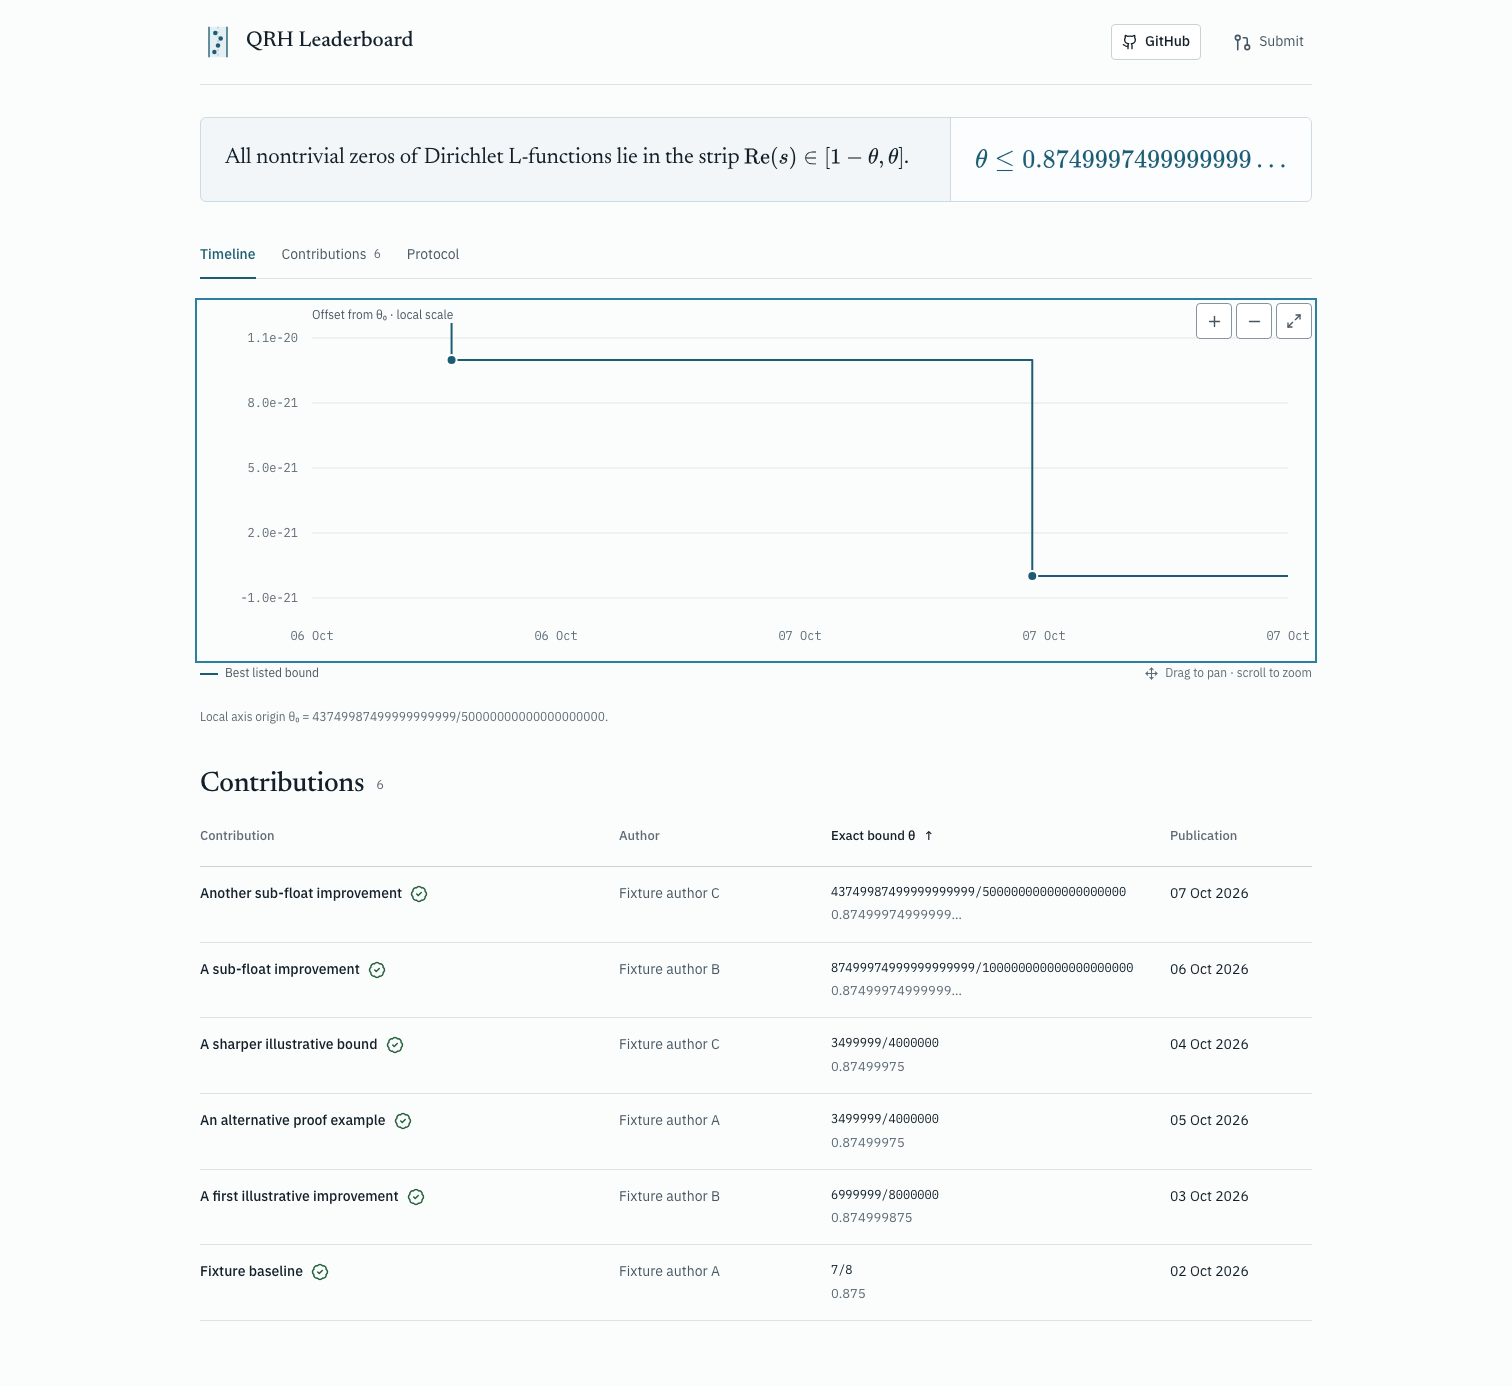
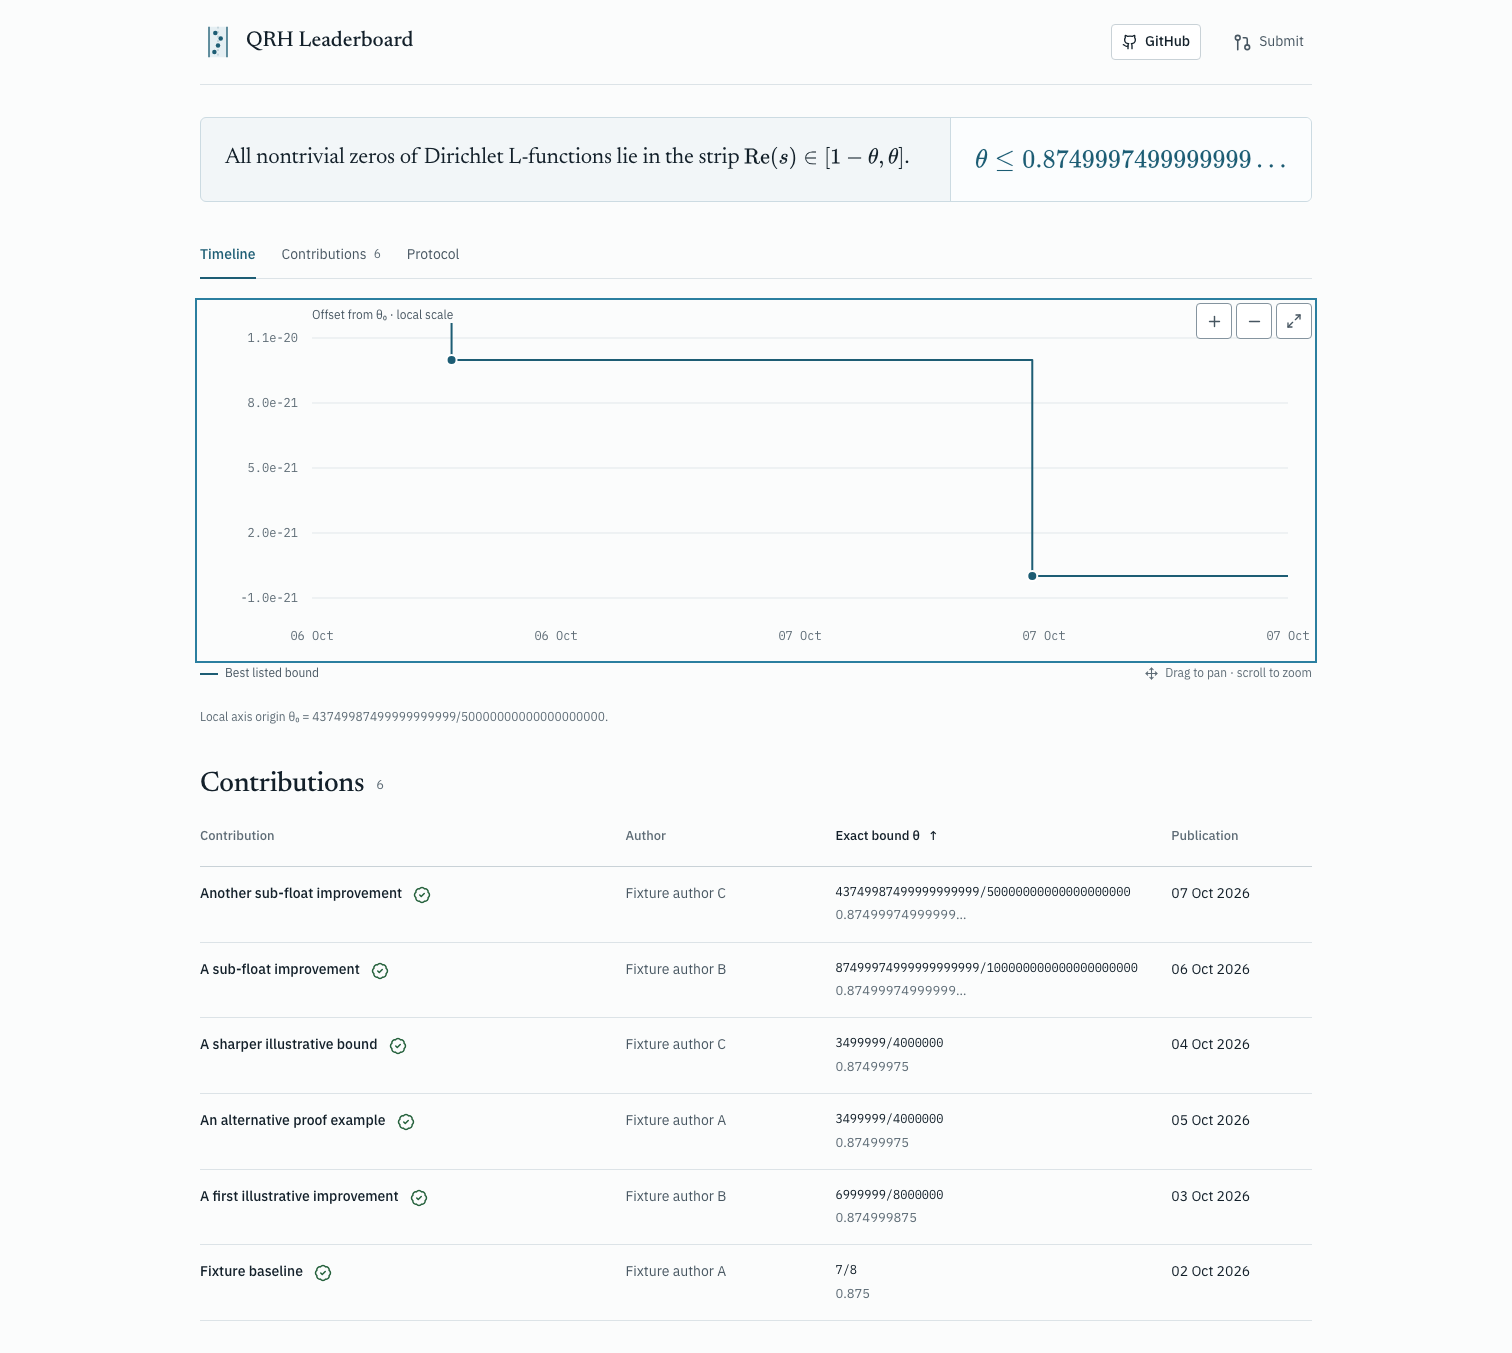
Refine leaderboard links and row selection

diff --git a/src/App.tsx b/src/App.tsx
@@ -54,6 +54,24 @@ const columns: { key: SortKey; label: string }[] = [
   { key: "date", label: "Publication" },
 ];
 const theorem = `∀ {q : ℕ} [NeZero q] (χ : DirichletCharacter ℂ q) {s : ℂ},\n  (θ < s.re) → ¬ (χ = 1 ∧ s = 1) →\n  DirichletCharacter.LFunction χ s ≠ 0`;
+const proofSolutionUrl = (r: Contribution) => {
+  const statement = r.references.find(
+    (ref) => ref.url.endsWith(".lean") && /statement/i.test(ref.label),
+  );
+  if (statement) {
+    const solution = statement.url
+      .replace(/challenge-src\/Challenge\.lean$/, "solution-src/Solution.lean")
+      .replace(/src\/(?:[^/]+\/)?Challenge\.lean$/, "src/Solution.lean");
+    return `https://github.com/GTimG/QuasiRiemannTracker/blob/main/public/${solution}`;
+  }
+};
+const projectUrl = (r: Contribution) => {
+  if (r.repository) return `https://github.com/${r.repository}`;
+  const publication = r.references.find((ref) =>
+    /publication|paper|manuscript|writeup|homepage/i.test(ref.label),
+  );
+  if (publication) return publicUrl(publication.url);
+};
 const leanTheorem = `theorem quasi_riemann_bound
     {q : ℕ} [NeZero q] (χ : DirichletCharacter ℂ q) {s : ℂ}
     (hs : (θ : ℝ) < s.re) (hpole : ¬ (χ = 1 ∧ s = 1)) :
@@ -339,6 +357,7 @@ export default function App() {
                           {records.map((r) => (
                             <tr
                               key={r.id}
+                              onClick={() => setSelected(r.id)}
                               className={
                                 selected === r.id ? "selected-row" : ""
                               }
@@ -352,14 +371,17 @@ export default function App() {
                                   >
                                     {contributionTitle(r)}
                                   </button>
-                                  <button
+                                  <a
                                     className={
                                       "tag verification-badge " +
                                       (verifiedHere(r) ? "teal" : "amber")
                                     }
-                                    title={statusLabel(r)}
-                                    aria-label={`Read verification protocol for ${contributionTitle(r)}`}
-                                    onClick={() => setTab("Protocol")}
+                                    title={`${statusLabel(r)} · View checked solution`}
+                                    aria-label={`Verified solution for ${contributionTitle(r)}`}
+                                    href={proofSolutionUrl(r)}
+                                    onClick={(event) => event.stopPropagation()}
+                                    target="_blank"
+                                    rel="noreferrer"
                                   >
                                     {verifiedHere(r) ? (
                                       <BadgeCheck
@@ -372,7 +394,25 @@ export default function App() {
                                     <span className="sr-only">
                                       {statusLabel(r)}
                                     </span>
-                                  </button>
+                                  </a>
+                                  {projectUrl(r) && (
+                                    <a
+                                      className="source-link"
+                                      href={projectUrl(r)}
+                                      onClick={(event) =>
+                                        event.stopPropagation()
+                                      }
+                                      aria-label={`Project homepage for ${contributionTitle(r)}`}
+                                      title="Project homepage"
+                                      target="_blank"
+                                      rel="noreferrer"
+                                    >
+                                      <ExternalLink
+                                        size={16}
+                                        aria-hidden="true"
+                                      />
+                                    </a>
+                                  )}
                                 </div>
                               </td>
                               <td data-label="Author" className="author-cell">

diff --git a/src/CatalogueDetail.tsx b/src/CatalogueDetail.tsx
@@ -77,18 +77,23 @@ export default function CatalogueDetail({
           </>
         )}
         <h3>Sources & downloads</h3>
-        {r.references.map((ref) => (
-          <a
-            className="reference"
-            key={ref.url}
-            href={publicUrl(ref.url)}
-            target="_blank"
-            rel="noreferrer"
-          >
-            {ref.label}
-            <ExternalLink size={13} />
-          </a>
-        ))}
+        {r.references
+          .filter(
+            (ref) =>
+              !(ref.url.endsWith(".lean") && /statement/i.test(ref.label)),
+          )
+          .map((ref) => (
+            <a
+              className="reference"
+              key={ref.url}
+              href={publicUrl(ref.url)}
+              target="_blank"
+              rel="noreferrer"
+            >
+              {ref.label}
+              <ExternalLink size={13} />
+            </a>
+          ))}
         <h3>Builds on</h3>
         {r.builds_on.length ? (
           r.builds_on.map((id) => (

diff --git a/src/styles.css b/src/styles.css
@@ -567,6 +567,9 @@ th[aria-sort="ascending"],
 th[aria-sort="descending"] {
   color: var(--ink);
 }
+tbody tr {
+  cursor: pointer;
+}
 .contribution-name {
   display: flex;
   align-items: baseline;
@@ -585,6 +588,19 @@ th[aria-sort="descending"] {
 }
 .verification-badge::before {
   display: none;
+}
+.source-link {
+  display: inline-grid;
+  place-items: center;
+  align-self: start;
+  flex-shrink: 0;
+  width: 24px;
+  height: 24px;
+  color: #475661;
+}
+.source-link:hover {
+  color: var(--teal);
+  background: #e5eff3;
 }
 .author-cell {
   color: #475661;
